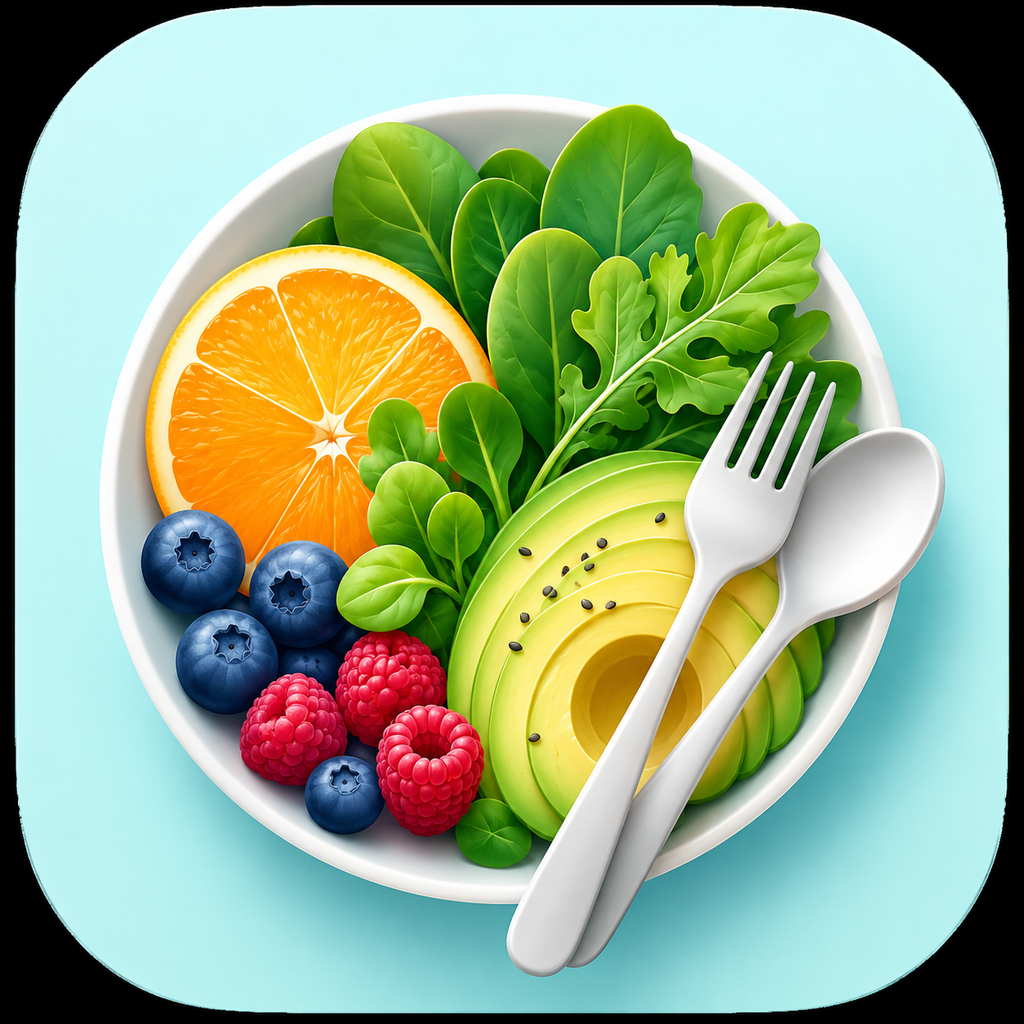
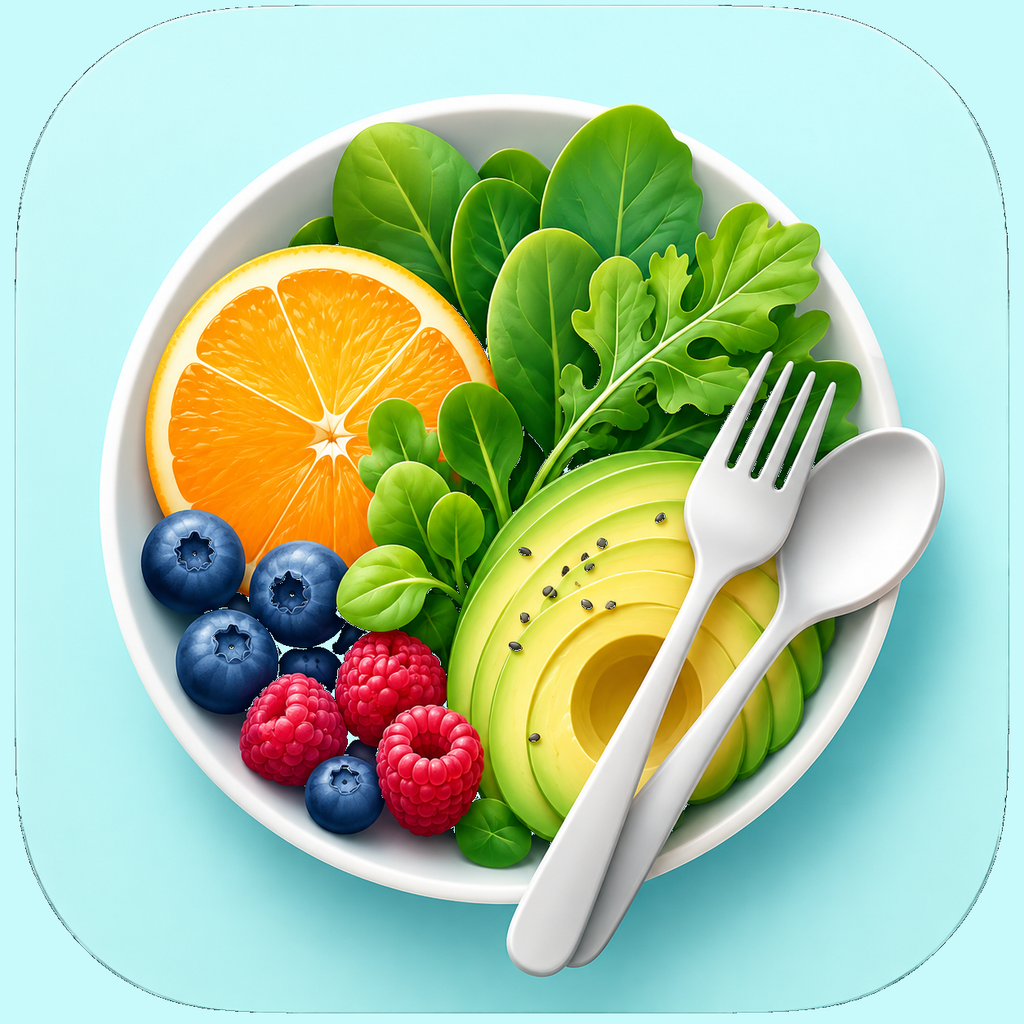
fix: 起動画面アイコンの黒角とダークモードの上部白帯
- スプラッシュ/アイコン: 元画像の角丸の外側が「透明」ではなく不透明の黒だったため、
  重ね塗りでは消えず起動画面に黒い角が出ていた。黒ピクセルを背景色#C8FAFBへ置換して
  全アセットを再生成（Android foregroundは同じ箇所を透明化）
- StatusBarMask: 背景色に rgba(251,251,250,0.96)（ライトの背景色）をハードコード
  していたため、ダークで上部だけ白く残っていた。C.bg（背景トークン）由来に修正

Changed region(s): [[0.0, 0.0, 1.0, 1.0], [0.3125, 0.5938, 0.3438, 0.6875], [0.25, 0.625, 0.2812, 0.6562]]

diff --git a/native/src/components/StatusBarMask.tsx b/native/src/components/StatusBarMask.tsx
@@ -1,17 +1,25 @@
 // ステータスバー領域の下敷き。スクロール時にコンテンツが時計・Dynamic Islandと
-// 重なって読めなくなるのを防ぐ（各画面のルートViewの最後に置くこと）
+// 重なって読めなくなるのを防ぐ（各画面のルートViewの最後に置くこと）。
+//
+// 色は必ず C.bg（背景トークン）から作る。以前は rgba(251,251,250,0.96) と
+// ライトの背景色をハードコードしていたため、ダークモードで上部だけが白く残っていた
+// （βフィードバック 2026-09-01）。テーマを変えるとツリーが作り直されるので、
+// レンダー時に C を読めばそのまま追従する。
 import { View, StyleSheet } from 'react-native';
 import { useSafeAreaInsets } from 'react-native-safe-area-context';
+import { C, rgba } from '@/lib/ui';
 
 export default function StatusBarMask() {
   const insets = useSafeAreaInsets();
   if (insets.top <= 0) return null;
-  return <View pointerEvents="none" style={[s.mask, { height: insets.top }]} />;
+  return (
+    <View
+      pointerEvents="none"
+      style={[s.mask, { height: insets.top, backgroundColor: rgba(C.bg, 0.96) }]}
+    />
+  );
 }
 
 const s = StyleSheet.create({
-  mask: {
-    position: 'absolute', top: 0, left: 0, right: 0, zIndex: 10,
-    backgroundColor: 'rgba(251,251,250,0.96)',
-  },
+  mask: { position: 'absolute', top: 0, left: 0, right: 0, zIndex: 10 },
 });
